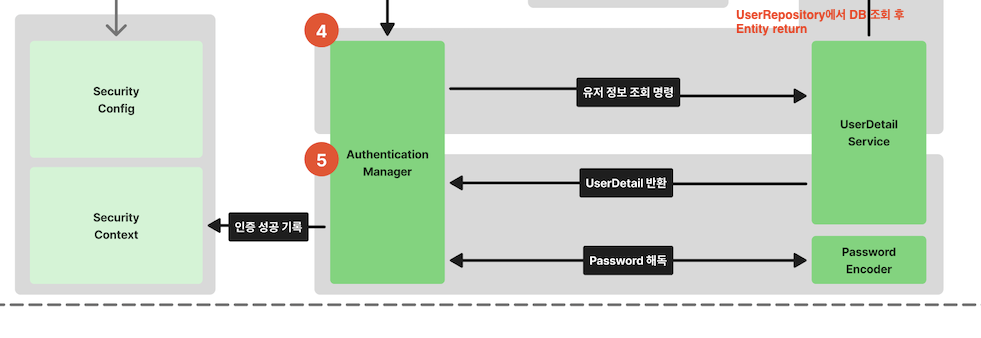
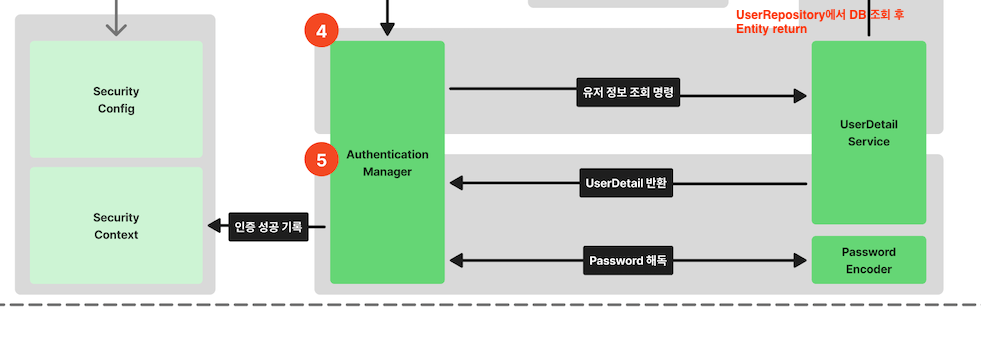
add: png 압축

diff --git a/content/posts/spring/boilerplate/01-auth-jwt.md b/content/posts/spring/boilerplate/01-auth-jwt.md
@@ -1,9 +1,11 @@
 +++
-title = 'Spring Boot Boilerplate: auth-jwt-redis'
+title = 'Spring Boot: auth-jwt'
 date = 2026-02-09
 featured_image = "https://upload.wikimedia.org/wikipedia/commons/thumb/7/79/Spring_Boot.svg/330px-Spring_Boot.svg.png"
 tags = ['skala','springboot']
 +++
+
+{{<series title="🍀 Spring Boot: Boilerplate 개발" series="boilerpate">}}
 
 <br>
 

diff --git a/content/posts/skala/00_data.md b/content/posts/skala/00_data.md
@@ -1,5 +1,5 @@
 +++
-title = '[skala] 데이터 분석 개요 및 기초통계'
+title = '데이터 분석 개요 및 기초통계'
 date = 2026-01-07
 featured_image = "https://upload.wikimedia.org/wikipedia/commons/thumb/8/8c/Standard_deviation_diagram.svg/500px-Standard_deviation_diagram.svg.png"
 tags = ['skala','python']

diff --git a/content/posts/skala/02_vectordb.md b/content/posts/skala/02_vectordb.md
@@ -1,5 +1,5 @@
 +++
-title = '[skala] VectorDB'
+title = 'VectorDB'
 date = 2026-01-22
 featured_image = "https://images.contentstack.io/v3/assets/blt7151619cb9560896/blt5c3b8fcafa132cf2/667daaeb82ce1d23f7312f32/lorbgyz9ffm8ui8jh-vector-database-search1.png"
 tags = ['ai','skala']

diff --git a/content/posts/skala/01_prompt_engineering.md b/content/posts/skala/01_prompt_engineering.md
@@ -1,5 +1,5 @@
 +++
-title = '[skala] Prompt Engineering'
+title = 'Prompt Engineering'
 date = 2026-01-12
 featured_image = "http://t1.daumcdn.net/movie/171980d2cd9344808580f4fc0cb65e151557709136361"
 tags = ['ai','skala']
